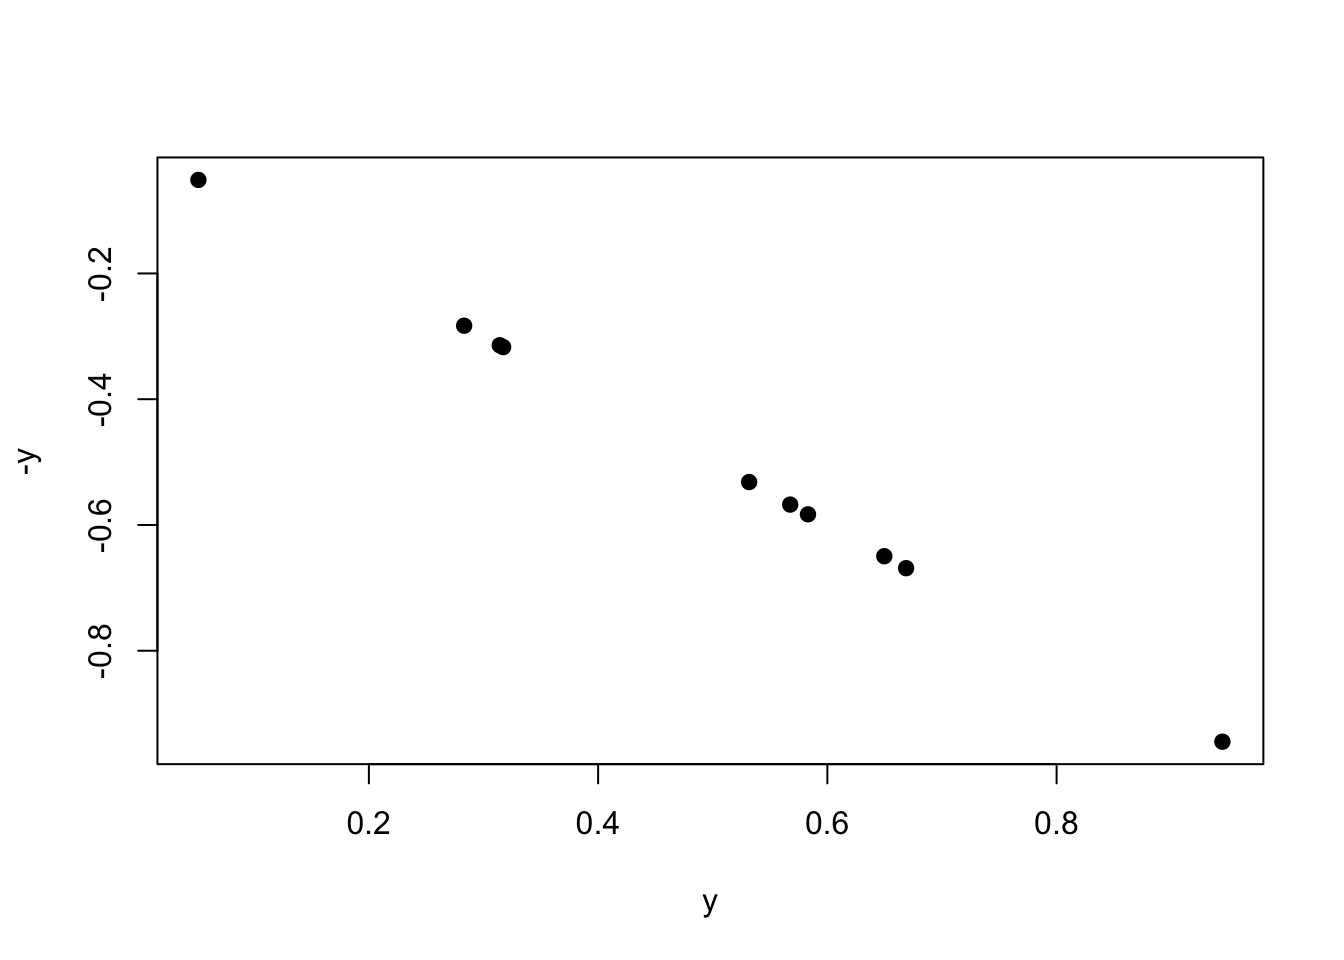
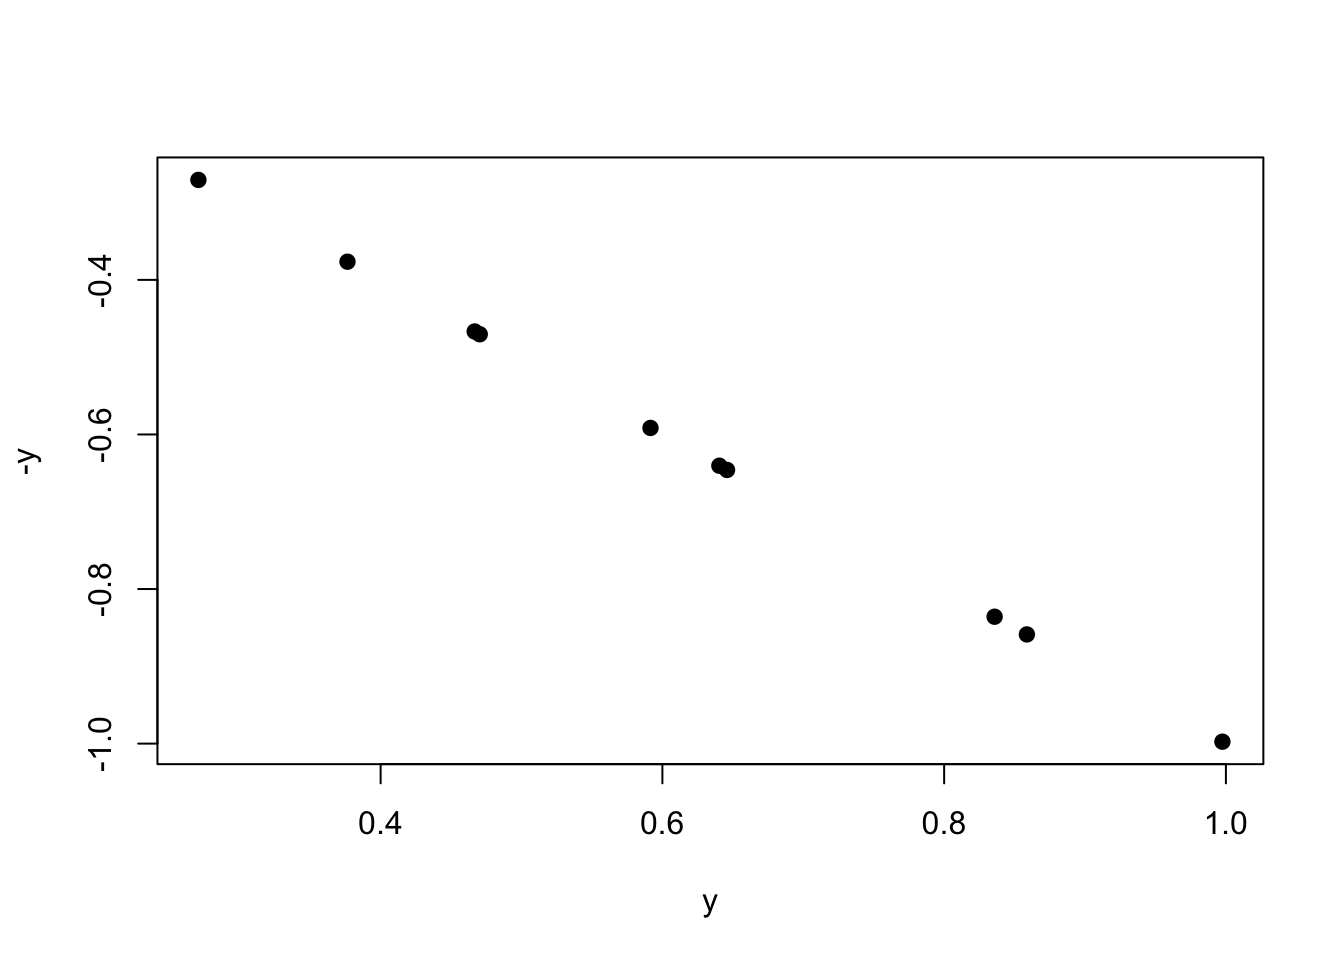
Updating instructions

diff --git a/docs/cor_reg.html b/docs/cor_reg.html
@@ -451,7 +451,7 @@ window.Quarto = {
 <div class="code-copy-outer-scaffold"><div class="sourceCode cell-code" id="cb11"><pre class="sourceCode r code-with-copy"><code class="sourceCode r"><span id="cb11-1"><a href="#cb11-1" aria-hidden="true" tabindex="-1"></a><span class="fu">cor</span>(y, x) <span class="sc">|&gt;</span> </span>
 <span id="cb11-2"><a href="#cb11-2" aria-hidden="true" tabindex="-1"></a>  <span class="fu">round</span>(<span class="dv">2</span>)</span></code></pre></div><button title="Copy to Clipboard" class="code-copy-button"><i class="bi"></i></button></div>
 <div class="cell-output cell-output-stdout">
-<pre><code>[1] -0.08</code></pre>
+<pre><code>[1] -0.27</code></pre>
 </div>
 </div>
 </section>
@@ -872,6 +872,7 @@ special_attack 0.48   0.36    0.31           1.00</code></pre>
 <h3 data-number="14.5.1" class="anchored" data-anchor-id="q1-unk-remissions"><span class="header-section-number">14.5.1</span> Q1: UNK Remissions</h3>
 <p>UNK releases data on many metrics each year, including both budgetary and enrollment information. These data are publicly available via the STAR report. You want to use these data to see how recent scholarship budgeting changes have impacts different metrics.</p>
 <p>For each part of this question, state if tuition spending has significantly changed the response variable. Make sure to include your statistics and <span class="math inline">\(p\)</span>-value.</p>
+<p><strong>Do not normalize the remission percent data.</strong></p>
 <section id="a." class="level5" data-number="14.5.1.0.1">
 <h5 data-number="14.5.1.0.1" class="anchored" data-anchor-id="a."><span class="header-section-number">14.5.1.0.1</span> a.</h5>
 <p>Tuition remission spending has increased dramatically in the last few years. You want to know if this increased spending has increased the total number of first-time freshman.</p>
